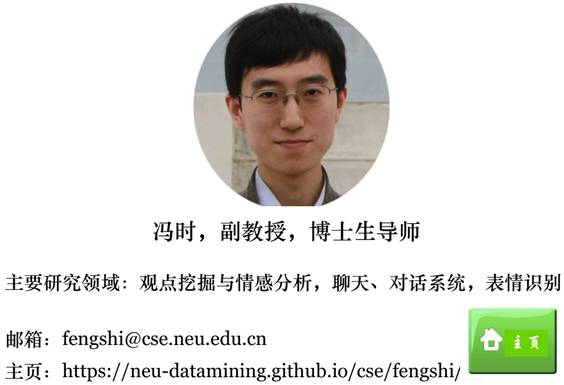
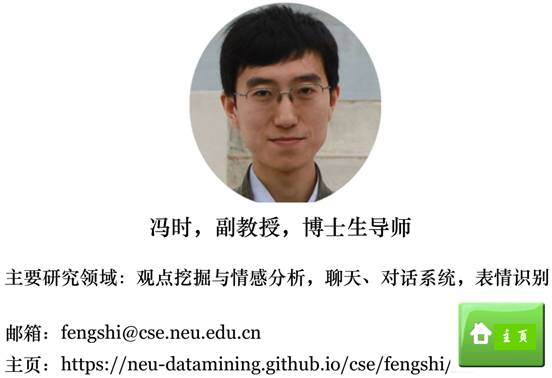
change

diff --git a/DM-Group.htm b/DM-Group.htm
@@ -24,16 +24,16 @@ w\:* {behavior:url(#default#VML);}
   <o:Template>Normal</o:Template>
   <o:LastAuthor>lenovo</o:LastAuthor>
   <o:Revision>2</o:Revision>
-  <o:TotalTime>3</o:TotalTime>
-  <o:Created>2024-07-01T02:12:00Z</o:Created>
-  <o:LastSaved>2024-07-01T02:12:00Z</o:LastSaved>
-  <o:Pages>1</o:Pages>
-  <o:Words>254</o:Words>
-  <o:Characters>1452</o:Characters>
+  <o:TotalTime>1</o:TotalTime>
+  <o:Created>2024-08-27T06:52:00Z</o:Created>
+  <o:LastSaved>2024-08-27T06:52:00Z</o:LastSaved>
+  <o:Pages>2</o:Pages>
+  <o:Words>264</o:Words>
+  <o:Characters>1505</o:Characters>
   <o:Company>Microsoft</o:Company>
   <o:Lines>12</o:Lines>
   <o:Paragraphs>3</o:Paragraphs>
-  <o:CharactersWithSpaces>1703</o:CharactersWithSpaces>
+  <o:CharactersWithSpaces>1766</o:CharactersWithSpaces>
   <o:Version>12.00</o:Version>
  </o:DocumentProperties>
 </xml><![endif]-->
@@ -369,11 +369,10 @@ w\:* {behavior:url(#default#VML);}
 @font-face
 	{font-family:"Cambria Math";
 	panose-1:2 4 5 3 5 4 6 3 2 4;
-	mso-font-charset:1;
+	mso-font-charset:0;
 	mso-generic-font-family:roman;
-	mso-font-format:other;
 	mso-font-pitch:variable;
-	mso-font-signature:0 0 0 0 0 0;}
+	mso-font-signature:-536870145 1107305727 0 0 415 0;}
 @font-face
 	{font-family:Calibri;
 	panose-1:2 15 5 2 2 2 4 3 2 4;
@@ -784,20 +783,20 @@ style='mso-spacerun:yes'>&nbsp;&nbsp;&nbsp;&nbsp;&nbsp;&nbsp;&nbsp;&nbsp;&nbsp;&
  </v:formulas>
  <v:path o:extrusionok="f" gradientshapeok="t" o:connecttype="rect"/>
  <o:lock v:ext="edit" aspectratio="t"/>
-</v:shapetype><v:shape id="ͼƬ_x0020_11" o:spid="_x0000_i1037" type="#_x0000_t75"
+</v:shapetype><v:shape id="ͼƬ_x0020_11" o:spid="_x0000_i1038" type="#_x0000_t75"
  style='width:62.25pt;height:269.25pt;visibility:visible;mso-wrap-style:square'>
  <v:imagedata src="DM-Group.files/image009.png" o:title=""/>
 </v:shape><![endif]--><![if !vml]><img width=83 height=359
 src="DM-Group.files/image010.gif" v:shapes="ͼƬ_x0020_11"><![endif]></span><span
 style='mso-spacerun:yes'>&nbsp;&nbsp;&nbsp;</span><span style='mso-no-proof:
-yes'><!--[if gte vml 1]><v:shape id="_x0000_i1036" type="#_x0000_t75" alt="Ƭͷ 00_00_00-00_00_30~2.gif"
- style='width:631.5pt;height:5in;visibility:visible;mso-wrap-style:square'>
- <v:imagedata src="DM-Group.files/image011.gif" o:title="Ƭͷ 00_00_00-00_00_30~2"/>
-</v:shape><![endif]--><![if !vml]><img width=842 height=480
-src="DM-Group.files/image011.gif" alt="Ƭͷ 00_00_00-00_00_30~2.gif" v:shapes="_x0000_i1036"><![endif]></span><span
+yes'><!--[if gte vml 1]><v:shape id="_x0000_i1037" type="#_x0000_t75" style='width:660.75pt;
+ height:372pt;visibility:visible;mso-wrap-style:square'>
+ <v:imagedata src="DM-Group.files/image011.gif" o:title=""/>
+</v:shape><![endif]--><![if !vml]><img width=881 height=496
+src="DM-Group.files/image011.gif" v:shapes="_x0000_i1037"><![endif]></span><span
 style='mso-spacerun:yes'>&nbsp;</span><span
 style='mso-spacerun:yes'>&nbsp;&nbsp;</span><span style='mso-no-proof:yes'><!--[if gte vml 1]><v:shape
- id="ͼƬ_x0020_6" o:spid="_x0000_i1035" type="#_x0000_t75" style='width:198.75pt;
+ id="ͼƬ_x0020_6" o:spid="_x0000_i1036" type="#_x0000_t75" style='width:198.75pt;
  height:275.25pt;visibility:visible;mso-wrap-style:square'>
  <v:imagedata src="DM-Group.files/image012.png" o:title=""/>
 </v:shape><![endif]--><![if !vml]><img width=265 height=367
@@ -808,7 +807,7 @@ src="DM-Group.files/image013.gif" v:shapes="ͼƬ_x0020_6"><![endif]></span></spa
 <p class=MsoNormal align=center style='text-align:center'><span lang=EN-US><a
 href="https://neu-datamining.github.io/"><span style='color:windowtext;
 mso-no-proof:yes;text-decoration:none;text-underline:none'><!--[if gte vml 1]><v:shape
- id="ͼƬ_x0020_7" o:spid="_x0000_i1034" type="#_x0000_t75"
+ id="ͼƬ_x0020_7" o:spid="_x0000_i1035" type="#_x0000_t75"
  href="https://neu-datamining.github.io/" style='width:180.75pt;height:47.25pt;
  visibility:visible;mso-wrap-style:square' o:button="t">
  <v:fill o:detectmouseclick="t"/>
@@ -819,7 +818,7 @@ style='mso-spacerun:yes'>&nbsp;</span><span
 style='mso-spacerun:yes'>&nbsp;</span><a
 href="https://neu-datamining.github.io/DM-Group-introduction.htm"><span
 style='color:windowtext;mso-no-proof:yes;text-decoration:none;text-underline:
-none'><!--[if gte vml 1]><v:shape id="ͼƬ_x0020_1" o:spid="_x0000_i1033" type="#_x0000_t75"
+none'><!--[if gte vml 1]><v:shape id="ͼƬ_x0020_1" o:spid="_x0000_i1034" type="#_x0000_t75"
  href="https://neu-datamining.github.io/DM-Group-introduction.htm" style='width:185.25pt;
  height:47.25pt;visibility:visible;mso-wrap-style:square' o:button="t">
  <v:fill o:detectmouseclick="t"/>
@@ -829,7 +828,7 @@ border=0 width=247 height=63 src="DM-Group.files/image017.jpg" v:shapes="ͼƬ_x0
 style='mso-spacerun:yes'>&nbsp; </span><a
 href="https://neu-datamining.github.io/DM-Group-publication.htm"><span
 style='color:windowtext;mso-no-proof:yes;text-decoration:none;text-underline:
-none'><!--[if gte vml 1]><v:shape id="ͼƬ_x0020_10" o:spid="_x0000_i1032"
+none'><!--[if gte vml 1]><v:shape id="ͼƬ_x0020_10" o:spid="_x0000_i1033"
  type="#_x0000_t75"
  href="https://neu-datamining.github.io/DM-Group-publication.htm" style='width:179.25pt;
  height:47.25pt;visibility:visible;mso-wrap-style:square' o:button="t">
@@ -840,7 +839,7 @@ border=0 width=239 height=63 src="DM-Group.files/image019.jpg" v:shapes="ͼƬ_x0
 style='mso-spacerun:yes'>&nbsp;&nbsp;</span><a
 href="https://neu-datamining.github.io/DM-Group-patent.htm"><span
 style='color:windowtext;mso-no-proof:yes;text-decoration:none;text-underline:
-none'><!--[if gte vml 1]><v:shape id="ͼƬ_x0020_9" o:spid="_x0000_i1031" type="#_x0000_t75"
+none'><!--[if gte vml 1]><v:shape id="ͼƬ_x0020_9" o:spid="_x0000_i1032" type="#_x0000_t75"
  href="https://neu-datamining.github.io/DM-Group-patent.htm" style='width:180pt;
  height:46.5pt;visibility:visible;mso-wrap-style:square' o:button="t">
  <v:fill o:detectmouseclick="t"/>
@@ -850,7 +849,7 @@ border=0 width=240 height=62 src="DM-Group.files/image021.jpg" v:shapes="ͼƬ_x0
 style='mso-spacerun:yes'>&nbsp;&nbsp;</span><a
 href="https://neu-datamining.github.io/DM-Group-project.htm"><span
 style='color:windowtext;mso-no-proof:yes;text-decoration:none;text-underline:
-none'><!--[if gte vml 1]><v:shape id="ͼƬ_x0020_17" o:spid="_x0000_i1030"
+none'><!--[if gte vml 1]><v:shape id="ͼƬ_x0020_17" o:spid="_x0000_i1031"
  type="#_x0000_t75"
  href="https://neu-datamining.github.io/DM-Group-project.htm" style='width:179.25pt;
  height:45.75pt;visibility:visible;mso-wrap-style:square' o:button="t">
@@ -861,7 +860,7 @@ border=0 width=239 height=61 src="DM-Group.files/image023.jpg" v:shapes="ͼƬ_x0
 style='mso-spacerun:yes'>&nbsp;&nbsp;</span><a
 href="https://neu-datamining.github.io/DM-Group-communication.htm"><span
 style='color:windowtext;mso-no-proof:yes;text-decoration:none;text-underline:
-none'><!--[if gte vml 1]><v:shape id="ͼƬ_x0020_18" o:spid="_x0000_i1029"
+none'><!--[if gte vml 1]><v:shape id="ͼƬ_x0020_18" o:spid="_x0000_i1030"
  type="#_x0000_t75"
  href="https://neu-datamining.github.io/DM-Group-communication.htm" style='width:180.75pt;
  height:47.25pt;visibility:visible;mso-wrap-style:square' o:button="t">
@@ -872,7 +871,7 @@ border=0 width=241 height=63 src="DM-Group.files/image025.jpg" v:shapes="ͼƬ_x0
 style='mso-spacerun:yes'>&nbsp;&nbsp;</span><a
 href="https://neu-datamining.github.io/DM-Group-chinese.htm"><span
 style='color:windowtext;mso-no-proof:yes;text-decoration:none;text-underline:
-none'><!--[if gte vml 1]><v:shape id="ͼƬ_x0020_19" o:spid="_x0000_i1028"
+none'><!--[if gte vml 1]><v:shape id="ͼƬ_x0020_19" o:spid="_x0000_i1029"
  type="#_x0000_t75"
  href="https://neu-datamining.github.io/DM-Group-chinese.htm" style='width:179.25pt;
  height:45pt;visibility:visible;mso-wrap-style:square' o:button="t">
@@ -884,41 +883,47 @@ border=0 width=239 height=60 src="DM-Group.files/image027.jpg" v:shapes="ͼƬ_x0
 <p class=MsoNormal align=center style='text-align:center'><span lang=EN-US><a
 href="https://neu-datamining.github.io/wangdl.htm"><span style='color:windowtext;
 mso-no-proof:yes;text-decoration:none;text-underline:none'><!--[if gte vml 1]><v:shape
- id="ͼƬ_x0020_2" o:spid="_x0000_i1027" type="#_x0000_t75"
- href="https://neu-datamining.github.io/wangdl.htm" style='width:423.75pt;
- height:309pt;visibility:visible;mso-wrap-style:square' o:button="t">
- <v:fill o:detectmouseclick="t"/>
+ id="ͼƬ_x0020_12" o:spid="_x0000_i1028" type="#_x0000_t75"
+ href="https://neu-datamining.github.io/wangdl.htm" style='width:344.25pt;
+ height:283.5pt;visibility:visible;mso-wrap-style:square' o:button="t">
  <v:imagedata src="DM-Group.files/image028.png" o:title=""/>
 </v:shape><![endif]--><![if !vml]><span style='mso-ignore:vglayout'><img
-border=0 width=565 height=412 src="DM-Group.files/image029.jpg" v:shapes="ͼƬ_x0020_2"></span><![endif]></span></a><span
+border=0 width=459 height=378 src="DM-Group.files/image029.jpg" v:shapes="ͼƬ_x0020_12"></span><![endif]></span></a><span
 style='mso-spacerun:yes'>&nbsp;&nbsp; </span><span
 style='mso-spacerun:yes'>&nbsp;</span><span
 style='mso-spacerun:yes'>&nbsp;</span><span
 style='mso-spacerun:yes'>&nbsp;&nbsp;&nbsp;&nbsp;&nbsp;&nbsp;&nbsp;</span><a
-href="https://neu-datamining.github.io/cse/fengshi"><span style='color:windowtext;
+href="https://neu-datamining.github.io/cse/fengshi/"><span style='color:windowtext;
 mso-no-proof:yes;text-decoration:none;text-underline:none'><!--[if gte vml 1]><v:shape
- id="ͼƬ_x0020_3" o:spid="_x0000_i1026" type="#_x0000_t75"
- href="https://neu-datamining.github.io/cse/fengshi" style='width:403.5pt;
- height:309pt;visibility:visible;mso-wrap-style:square' o:button="t">
- <v:fill o:detectmouseclick="t"/>
+ id="ͼƬ_x0020_15" o:spid="_x0000_i1027" type="#_x0000_t75"
+ href="https://neu-datamining.github.io/cse/fengshi/" style='width:354pt;
+ height:283.5pt;visibility:visible;mso-wrap-style:square' o:button="t">
  <v:imagedata src="DM-Group.files/image030.png" o:title=""/>
 </v:shape><![endif]--><![if !vml]><span style='mso-ignore:vglayout'><img
-border=0 width=538 height=412 src="DM-Group.files/image031.jpg" v:shapes="ͼƬ_x0020_3"></span><![endif]></span></a><span
+border=0 width=472 height=378 src="DM-Group.files/image031.jpg" v:shapes="ͼƬ_x0020_15"></span><![endif]></span></a><span
 style='mso-spacerun:yes'>&nbsp;</span><span style='mso-no-proof:yes'><span
 style='mso-spacerun:yes'>&nbsp;</span></span><span
 style='mso-spacerun:yes'>&nbsp;&nbsp;&nbsp;</span><span
 style='mso-spacerun:yes'>&nbsp;&nbsp;</span><span
 style='mso-spacerun:yes'>&nbsp;&nbsp;&nbsp;&nbsp;&nbsp;&nbsp;&nbsp;&nbsp;</span><a
-href="http://faculty.neu.edu.cn/zhangyifei/english.html"><span
+href="http://faculty.neu.edu.cn/zhangyifei/en/index.htm"><span
 style='color:windowtext;mso-no-proof:yes;text-decoration:none;text-underline:
-none'><!--[if gte vml 1]><v:shape id="ͼƬ_x0020_12" o:spid="_x0000_i1025"
- type="#_x0000_t75" href="http://faculty.neu.edu.cn/zhangyifei/english.html"
- style='width:417pt;height:309pt;visibility:visible;mso-wrap-style:square'
+none'><!--[if gte vml 1]><v:shape id="ͼƬ_x0020_27" o:spid="_x0000_i1026"
+ type="#_x0000_t75" href="http://faculty.neu.edu.cn/zhangyifei/en/index.htm"
+ style='width:363pt;height:283.5pt;visibility:visible;mso-wrap-style:square'
  o:button="t">
- <v:fill o:detectmouseclick="t"/>
  <v:imagedata src="DM-Group.files/image032.png" o:title=""/>
 </v:shape><![endif]--><![if !vml]><span style='mso-ignore:vglayout'><img
-border=0 width=556 height=412 src="DM-Group.files/image033.jpg" v:shapes="ͼƬ_x0020_12"></span><![endif]></span></a></span></p>
+border=0 width=484 height=378 src="DM-Group.files/image033.jpg" v:shapes="ͼƬ_x0020_27"></span><![endif]></span></a><span
+style='mso-spacerun:yes'>&nbsp;&nbsp;&nbsp;&nbsp;&nbsp;&nbsp;&nbsp;&nbsp;&nbsp;&nbsp;</span><a
+href="https://yangxiaocui1215.github.io/"><span style='color:windowtext;
+mso-no-proof:yes;text-decoration:none;text-underline:none'><!--[if gte vml 1]><v:shape
+ id="ͼƬ_x0020_24" o:spid="_x0000_i1025" type="#_x0000_t75"
+ href="https://yangxiaocui1215.github.io/" style='width:371.25pt;height:283.5pt;
+ visibility:visible;mso-wrap-style:square' o:button="t">
+ <v:imagedata src="DM-Group.files/image034.png" o:title=""/>
+</v:shape><![endif]--><![if !vml]><span style='mso-ignore:vglayout'><img
+border=0 width=495 height=378 src="DM-Group.files/image035.jpg" v:shapes="ͼƬ_x0020_24"></span><![endif]></span></a></span></p>
 
 <p class=MsoNormal style='line-height:30.0pt;mso-line-height-rule:exactly'><span
 lang=EN-US><o:p>&nbsp;</o:p></span></p>
